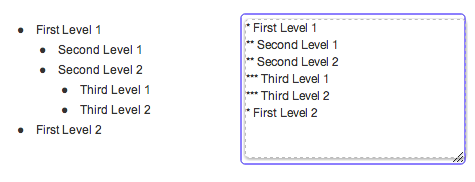
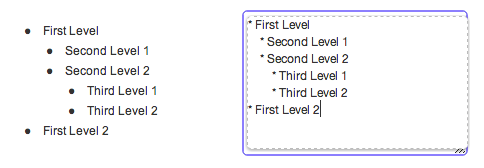
Markdown followed more precisely.

diff --git a/_site/index.html b/_site/index.html
@@ -107,11 +107,15 @@
 		<h1><a href='/2013/09/12/markdown-like-text-formatting'>Markdown Like Text Formatting</a></h1>
 		<p><em>Highlight important topics on your board using text formatting.</em></p>
 
-<p>Sketchboard users have requested a possibility to format text. For starters <strong>Note</strong> and <strong>Just Text</strong> elements implement simple text formatting. Formatting is based on <strong>Markdown</strong>, initially following text formatting rules are used.</p>
+<p>Sketchboard users have requested possibility to format text. For starters <strong>Note</strong> and <strong>Just Text</strong> elements implement simple text formatting. Formatting is based on <strong>Markdown</strong>, initially following text formatting rules are used.</p>
 
-<p>There are some differences for Markdown. One of the biggest difference is that line breaks are obeyed. Other is that Sketchboard legacy *bold* makes text bold and not emphasized. In the future another probable exception might be that two underscores are used for __underlined text__ and not for text bolding.</p>
+<p>There are some differences for Markdown. Sketchboard legacy *bold* makes text bold and not emphasized. In the future another probable exception might be that two underscores are used for __underlined text__ and not for text bolding.</p>
 
 <h1 id='headings'>Headings</h1>
+
+<p>Markdown provides two styles to write headings.</p>
+
+<p><img alt='Heading Example' src='/images/Setext-heading-example.png' /></p>
 
 <p>Note Element <img alt='Heading Syntax (Notes)' src='/images/note-heading-markdown.png' /></p>
 
@@ -125,11 +129,11 @@
 
 <p>- First Level 1</p>
 
-<p>&#8211; Second Level 1</p>
+<p>&#160;&#160;&#160;&#160;- Second Level 1</p>
 
-<p>&#8212; Third Level 1</p>
+<p>&#160;&#160;&#160;&#160;&#160;&#160;&#160;&#160;- Third Level 1</p>
 
-<p><strong>Note</strong>, Sketchboard syntax differs from Markdown, nested bullet list does not use spaces before the bullet point. E.g. tab would focus browser address bar by default and at least for now that functionality is not overridden.</p>
+<p><strong>Note</strong>, Nested level bullets are 4/8 spaces. You can use TAB to autofill 4 space characters in the editor.</p>
 
 <h1 id='bold_and_italics'>Bold and Italics</h1>
 

diff --git a/_posts/2013-09-12-markdown-like-text-formatting.md b/_posts/2013-09-12-markdown-like-text-formatting.md
@@ -9,18 +9,21 @@ tags: []
 
 _Highlight important topics on your board using text formatting._
 
-Sketchboard users have requested a possibility to format text.
+Sketchboard users have requested possibility to format text.
 For starters __Note__ and __Just Text__ elements implement simple text formatting.
 Formatting is based on __Markdown__, initially following text formatting rules
 are used.
 
-There are some differences for Markdown. One of the biggest difference is that 
-line breaks are obeyed. Other is that Sketchboard legacy \*bold\* makes text bold
+There are some differences for Markdown. Sketchboard legacy \*bold\* makes text bold
 and not emphasized. In the future another probable exception might be that two underscores 
 are used for \__underlined text\__ and not for text bolding.
 
 Headings
 ========
+
+Markdown provides two styles to write headings.
+
+![Heading Example](/images/Setext-heading-example.png)
 
 Note Element
 ![Heading Syntax (Notes)](/images/note-heading-markdown.png)
@@ -38,13 +41,12 @@ You can use either - or * characters for bullet point.
 
 \- First Level 1
 
-\-- Second Level 1
+&nbsp;&nbsp;&nbsp;&nbsp;- Second Level 1
 
-\--- Third Level 1
+&nbsp;&nbsp;&nbsp;&nbsp;&nbsp;&nbsp;&nbsp;&nbsp;- Third Level 1
 
-__Note__, Sketchboard syntax differs from Markdown, nested bullet list does not use 
-spaces before the bullet point. E.g. tab would focus browser address bar by default and 
-at least for now that functionality is not overridden.
+__Note__, Nested level bullets are 4/8 spaces. You can use
+TAB to autofill 4 space characters in the editor.
 
 Bold and Italics
 ================
